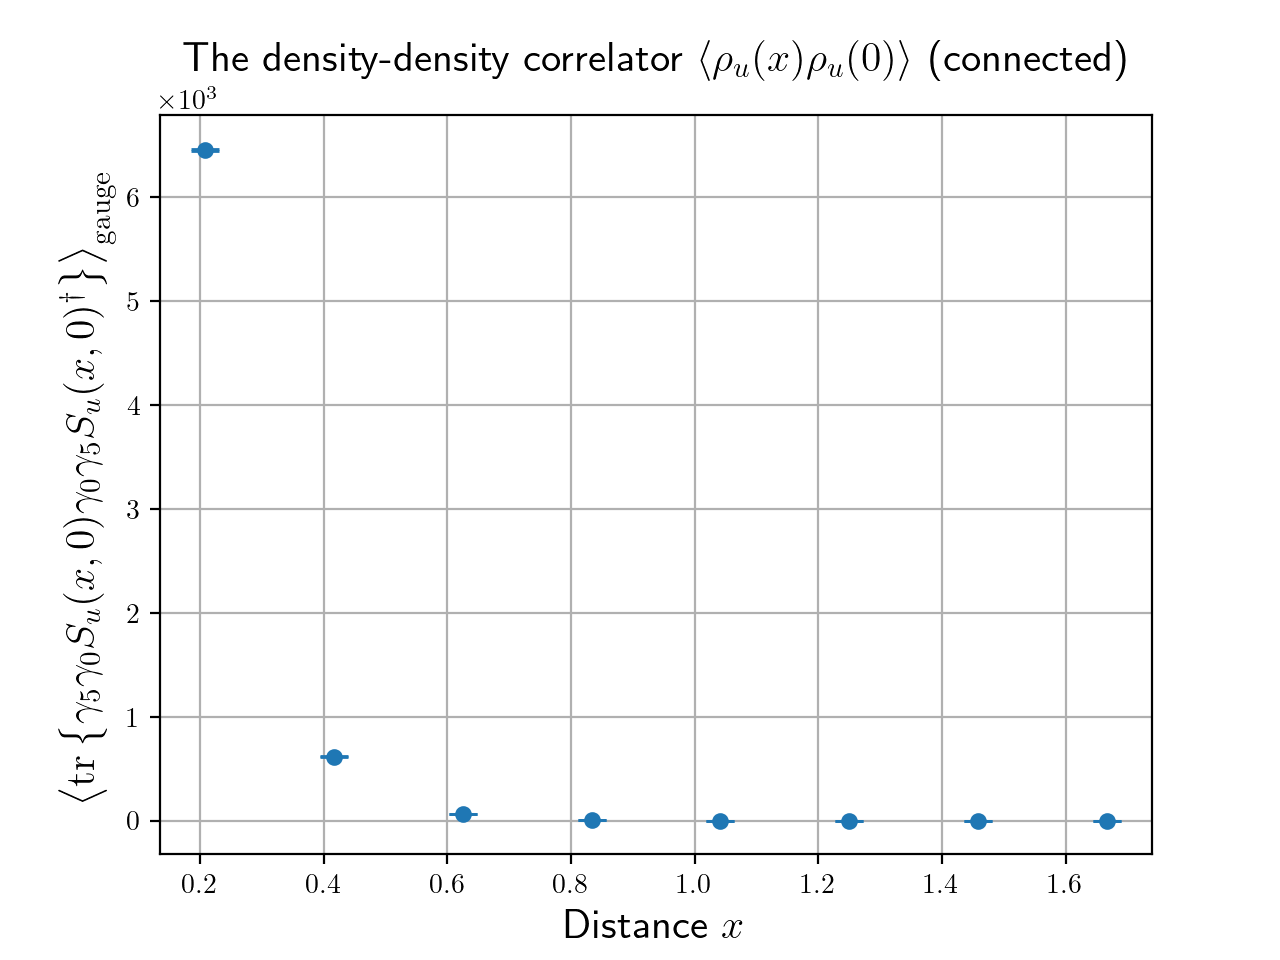
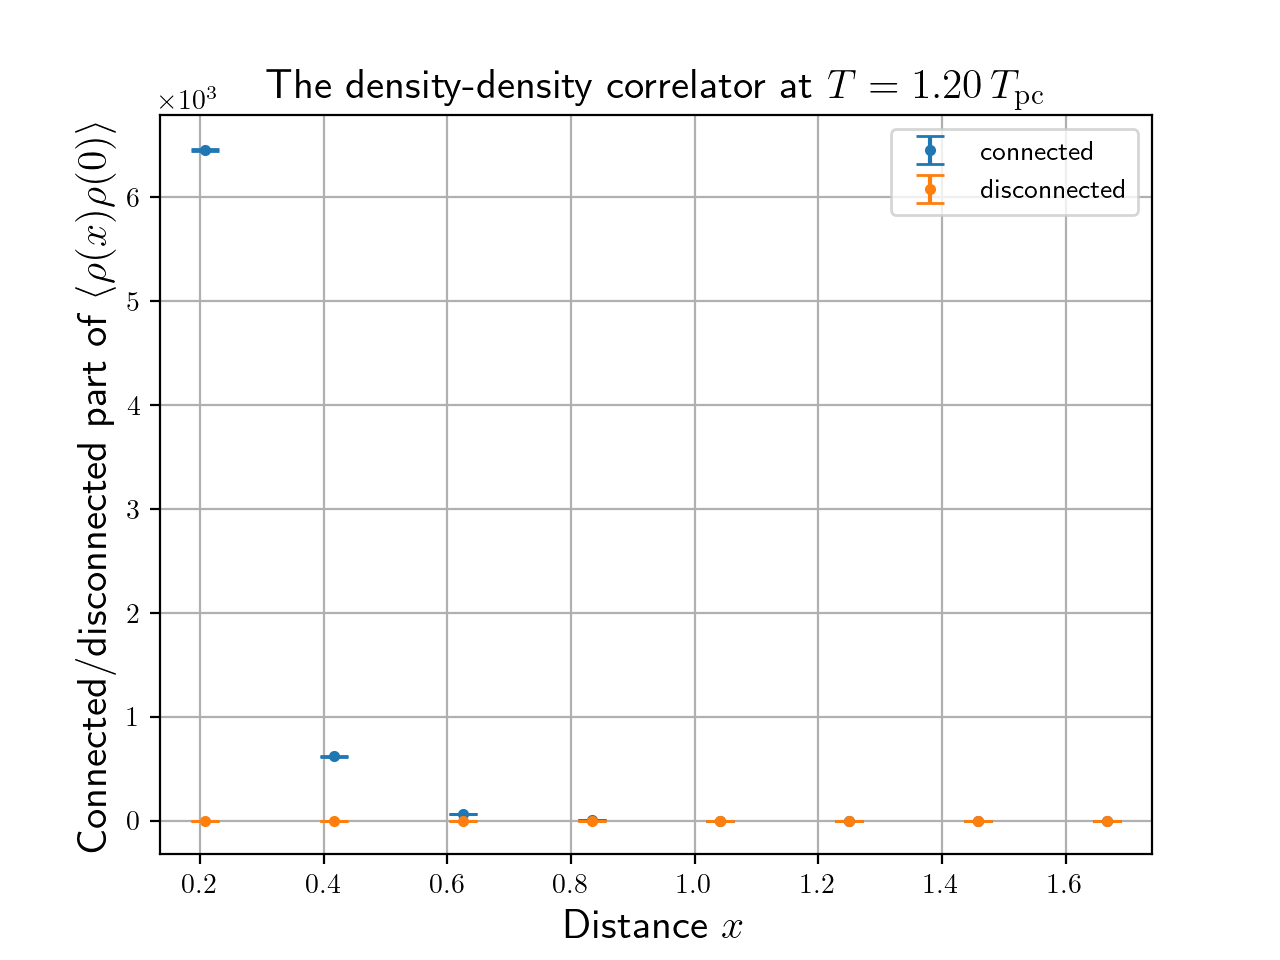
rm plot-correlator.py

diff --git a/plot.py b/plot.py
@@ -1,7 +1,10 @@
 import argparse
+import pathlib
 
 import matplotlib.pyplot as plot
 import numpy as np
+
+
 
 EXAMPLE_FILE = "demo.dat"
 
@@ -13,6 +16,7 @@ def main():
     parser.add_argument('filenames', nargs = '+', type = str, default = EXAMPLE_FILE)
     parser.add_argument('-s', '--start', type = int, default = MIN_DISTANCE)
     parser.add_argument('-e', '--end',   type = int, default = MAX_DISTANCE)
+    parser.add_argument('-t', '--temperature', type = str)
     args = parser.parse_args()
 
     plot.rcParams['text.usetex'] = True
@@ -20,21 +24,28 @@ def main():
 
     for i, fn in enumerate(args.filenames):
         data = np.loadtxt(fn, dtype = float)
+        
         X = data[args.start:args.end, 1]
         Y = data[args.start:args.end, 3]
         E = data[args.start:args.end, 5]
 
+        L = pathlib.Path(fn).stem
+
+        
         ax.errorbar(
             X,
             Y,
-            xerr = None,
-            yerr = E,
-            capsize = 5,
-            fmt = 'o',
-            markersize = 5
+            xerr       = None,
+            yerr       = E,
+            capsize    = 5,
+            fmt        = 'o',
+            markersize = 3,
+            label = L
         )
 
     ax.grid()
+
+    ax.legend()
     
     ax.ticklabel_format(
         axis="y",
@@ -43,7 +54,7 @@ def main():
     )
     
     ax.set_title(
-        r"The density-density correlator $\left<\rho_u(x)\rho_u(0)\right>$ (connected)",
+        r"The density-density correlator at $T = " + args.temperature + r"\,T_\mathrm{pc}$",
         fontsize = 15
     )
     
@@ -53,7 +64,7 @@ def main():
     )
     
     ax.set_ylabel(
-        r"$\left<\mathrm{tr}\left\{\gamma_5\gamma_0 S_u(x, 0)\gamma_0\gamma_5S_u(x, 0)^\dagger\right\}\right>_\mathrm{gauge}$",
+        r"Connected/disconnected part of $\left<\rho(x)\rho(0)\right>$",
         fontsize = 15
     )
     fig.savefig('plot.png', dpi = 200)
